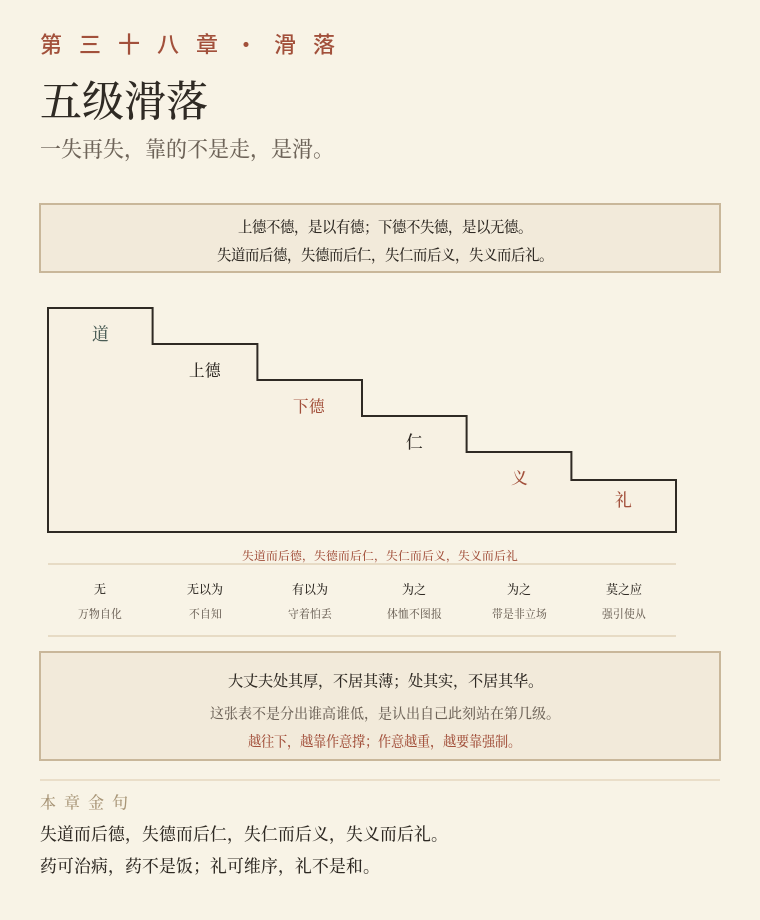
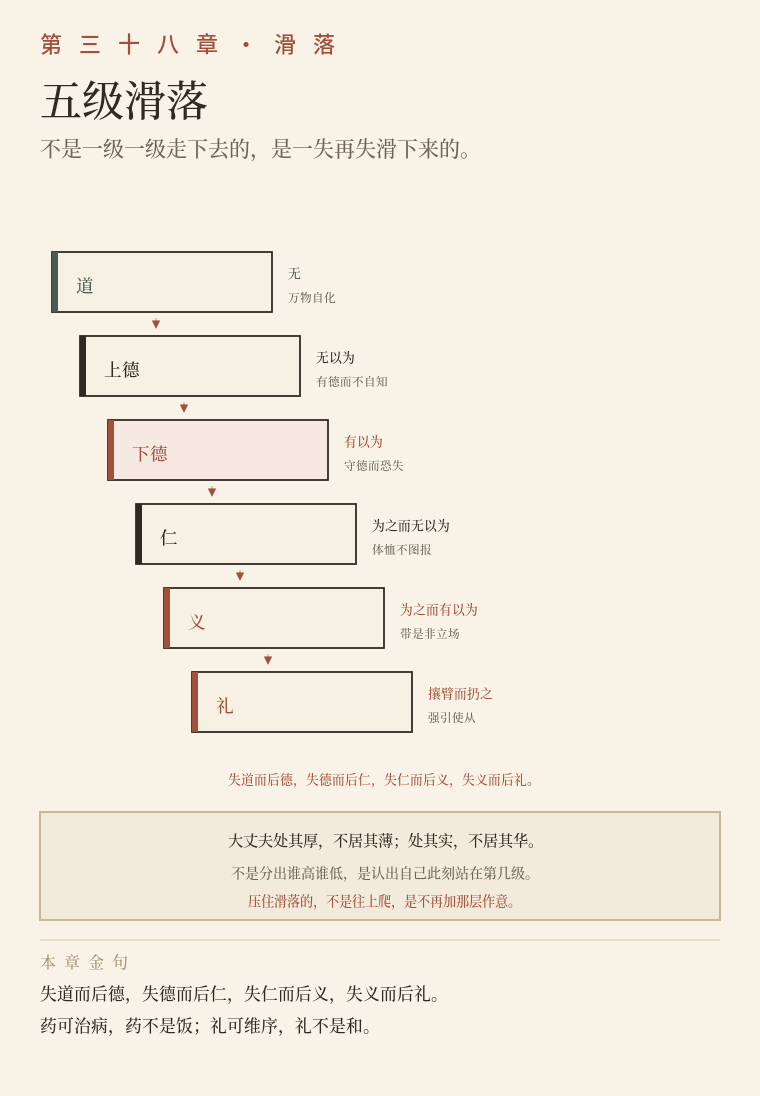
2.8.7 三十八融合旧版纵列：六框右移成滑落

diff --git a/tools/make_yili_svg.py b/tools/make_yili_svg.py
@@ -210,7 +210,7 @@ def ch01_miao_jiao():
 
 # ============ 第二章 · 六组对偶 ============
 def ch02_liu_zu():
-    W, H = 380, 512
+    W, H = 380, 548
     body, y = head(W, H, "六组对偶：执名则生对立", "第 二 章 · 对 照", "六组对偶",
                    "名一立，对面就跟着立；六组全是同一件事。", H)
     s = [body]
@@ -549,7 +549,7 @@ def ch51_sheng_bu_you():
 
 # ============ 第六十七章 · 三宝 ============
 def ch67_san_bao():
-    W, H = 380, 540
+    W, H = 380, 548
     body, y = head(W, H, "慈、俭、不敢为天下先：三条活得久的约束", "第 六 十 七 章 · 三 宝", "三宝",
                    "「长」量的是时间，不是位次：做得成，还要做得久。", H)
     s = [body]
@@ -1453,7 +1453,7 @@ def ch20_wei_zhi_yu_e():
 
 # ============ 第二十一章 · 孔德之容 ============
 def ch21_kong_de():
-    W, H = 380, 512
+    W, H = 380, 548
     body, y = head(W, H, "德不是修出来的，是流出来的", "第 二 十 一 章 · 道 之 为 物", "孔德之容",
                    "道不抓取时是道；被我们抓取时，才成恍兮惚兮。", H)
     s = [body]
@@ -2829,49 +2829,41 @@ def ch37b_pu_yu_jing():
 
 # ============ 第三十八章 · 五级台阶 ============
 def ch38_wu_ji_tai_jie():
-    W, H = 380, 460
-    body, y = head(W, H, "一级比一级低：不是台阶，是滑落", "第 三 十 八 章 · 滑 落",
-                   "五级滑落", "一失再失，靠的不是走，是滑。", H)
+    W, H = 380, 548
+    body, y = head(W, H, "越往下，越靠作意撑；作意越重，越要强制", "第 三 十 八 章 · 滑 落",
+                   "五级滑落", "不是一级一级走下去的，是一失再失滑下来的。", H)
     s = [body]
 
-    s.append(box(20, y + 2, 340, 34, fill="#F2EADA", stroke="#C9B79A"))
-    s.append(txt(190, y + 16, "上德不德，是以有德；下德不失德，是以无德。", 7.2, INK, "middle"))
-    s.append(txt(190, y + 30, "失道而后德，失德而后仁，失仁而后义，失义而后礼。", 7.2, INK, "middle"))
+    rows = [("道", "无", "万物自化", GREEN),
+            ("上德", "无以为", "有德而不自知", INK),
+            ("下德", "有以为", "守德而恐失", SEAL),
+            ("仁", "为之而无以为", "体恤不图报", INK),
+            ("义", "为之而有以为", "带是非立场", SEAL),
+            ("礼", "攘臂而扔之", "强引使从", SEAL)]
 
-    a = y + 44
-    base = a + 122
-    bnd = [24, 76.3, 128.7, 181, 233.3, 285.7, 338]
-    offs = [10, 28, 46, 64, 82, 96]
-    d = f'M{bnd[0]},{a+offs[0]} '
-    for i in range(6):
-        d += f'L{bnd[i+1]},{a+offs[i]} '
+    a = y + 26
+    step = 42
+    w = 110
+    for i, (nm, judge, mark, col) in enumerate(rows):
+        bx = 26 + i * 14
+        by = a + i * step
+        fill = "#F6E9E2" if nm == "下德" else "#F7F1E3"
+        s.append(f'<rect x="{bx}" y="{by}" width="{w}" height="30" fill="{fill}" stroke="{INK}" stroke-width="0.9"/>')
+        s.append(f'<rect x="{bx}" y="{by}" width="3" height="30" fill="{col}"/>')
+        s.append(txt(bx + 12, by + 20, nm, 8.8, col))
+        s.append(txt(bx + w + 8, by + 13, judge, 6.4, col))
+        s.append(txt(bx + w + 8, by + 25, mark, 5.8, "#6E6459"))
         if i < 5:
-            d += f'L{bnd[i+1]},{a+offs[i+1]} '
-    d += f'L{bnd[6]},{base} L{bnd[0]},{base} Z'
-    s.append(f'<path d="{d}" fill="#F7F1E3" stroke="{INK}" stroke-width="1"/>')
+            s.append(arrow(bx + 52, by + 33, bx + 52, by + step - 4, "#C9B79A", 0.7, head="arrS"))
 
-    levels = [("道", GREEN), ("上德", INK), ("下德", SEAL), ("仁", INK), ("义", SEAL), ("礼", SEAL)]
-    for i, (nm, col) in enumerate(levels):
-        cx = (bnd[i] + bnd[i+1]) / 2
-        s.append(txt(cx, a + offs[i] + (16 if i < 5 else 13), nm, 8.4 if len(nm) == 1 else 7.8, col, "middle"))
+    y2 = a + 5 * step + 56
+    s.append(txt(190, y2, "失道而后德，失德而后仁，失仁而后义，失义而后礼。", 6.4, SEAL, "middle"))
 
-    s.append(txt(190, base + 14, "失道而后德，失德而后仁，失仁而后义，失义而后礼", 5.9, SEAL, "middle"))
-
-    lg = base + 20
-    s.append(f'<line x1="24" y1="{lg-4}" x2="338" y2="{lg-4}" stroke="{LINE}" stroke-width="0.6"/>')
-    judges = [("无", "万物自化"), ("无以为", "不自知"), ("有以为", "守着怕丢"),
-              ("为之", "体恤不图报"), ("为之", "带是非立场"), ("莫之应", "强引使从")]
-    for i, (j, mark) in enumerate(judges):
-        cx = (bnd[i] + bnd[i+1]) / 2
-        s.append(txt(cx, lg + 11, j, 6.0, INK, "middle"))
-        s.append(txt(cx, lg + 23, mark, 5.4, "#6E6459", "middle"))
-    s.append(f'<line x1="24" y1="{lg+32}" x2="338" y2="{lg+32}" stroke="{LINE}" stroke-width="0.6"/>')
-
-    y3 = lg + 40
+    y3 = y2 + 14
     s.append(box(20, y3, 340, 54, fill="#F2EADA", stroke="#C9B79A"))
     s.append(txt(190, y3 + 17, "大丈夫处其厚，不居其薄；处其实，不居其华。", 7.6, INK, "middle"))
-    s.append(txt(190, y3 + 33, "这张表不是分出谁高谁低，是认出自己此刻站在第几级。", 7.0, "#6E6459", "middle"))
-    s.append(txt(190, y3 + 47, "越往下，越靠作意撑；作意越重，越要靠强制。", 6.6, SEAL, "middle"))
+    s.append(txt(190, y3 + 33, "不是分出谁高谁低，是认出自己此刻站在第几级。", 7.0, "#6E6459", "middle"))
+    s.append(txt(190, y3 + 47, "压住滑落的，不是往上爬，是不再加那层作意。", 6.6, SEAL, "middle"))
     s.append(gold(y3 + 64, "ch38"))
     s.append('</svg>')
     return "\n".join(s)

diff --git a/book/义理图-体例.md b/book/义理图-体例.md
@@ -79,7 +79,7 @@
 | 三十六·b | ch36b-wei-ming-yuan | 微明 · 渊 · 利器 | 拐点未显（曲线顶点＋赭点／胜＝任：直梁撑不住、弯梁承得住）／渊与鱼（回水圈里鱼 vs 岸上鱼鳃张，鱼自己跳上岸）／利器（墙上挂刀 vs 嘴上一把刀被禁）；读图一句：看见拐点的人不出声，出声的人已经在下棋。 |
 | 三十七·a | ch37a-wei-shou-xiang | 手牵象，与自化 | 为（手在上、绳系象）／无为（绳落地上，象自己走）；化（一手指向一人，旁有「教」）／自化（加一个「自」，方向反了）；读图一句：手一拿开，象还是那头象，路还是那条路。 |
 | 三十七·b | ch37b-pu-yu-jing | 朴 · 静 · 自正 | 原木压火（没上漆没雕花没名字）对刀压人（人会反弹）；静（劲不必往外扯）对驰（人没动心跑了）；自正（脚落在止上）对定（有人按着）；读图一句：木头上什么都没有，所以火没处可攀。 |
-| 三十八 | ch38-wu-ji-tai-jie | 五级滑落 | 六级滑落剖面（道／上德／下德／仁／义／礼）逐级下沉，读作「滑落」不是「台阶」，栏下一行「失道而后德…」；六级各带判语与迹象（无·万物自化／无以为·不自知／有以为·守着怕丢／为之·体恤不图报／为之·带是非立场／莫之应·强引使从）；收束用「大丈夫处其厚…」；读图一句：一失再失，靠的不是走，是滑。旧版 ch38-wu-ji（纵列方框）已移入 old/ |
+| 三十八 | ch38-wu-ji-tai-jie | 五级滑落 | 纵列六框（道／上德／下德／仁／义／礼），每框右配判语与迹象，逐框右移成一列下滑的砖阶，框间赭色小箭头；下接「失道而后德…」与「大丈夫处其厚…」收束；读图一句：一失再失，靠的不是走，是滑。旧纵列版 ch38-wu-ji 已并进来，原件留 old/ |
 | 三十六·a | ch36a-si-dui-jie-lv | 四对：一张一阖 | 四格：歙/张（弓弦与呼）／弱/强（曲枝对绷弦）／废/兴（塌顶屋对四手举物）／取/与（伸手拿对托饼给）；「固」一字两路：观天（必然如此）／下棋（你就这样办）；读图一句：四对不是四招，是四个时辰。 |
 | 三十五·a | ch35a-zhi-yu-chang | 执大象，天下往 | 两只手：向外扣（手形自带被抓的人）／向内捧（捧住的是自己）；场与门槛：虚线圈里站着人、旁边一幅可挂的图、横伸手把圈切成门；安平泰三格（宀下有人／两高下无压／气穿过） |
 | 三十四·b | ch34b-yi-ju-liang-du | 一句两读：小与大 | 帛书同句两见：中心「不主」环、万物自外归而不入其内；左读作小（不伸张/不认领/不做主），右读作大（差异都进来、不必改成一样）；下证「恒无欲」：按本库第一章「欲＝发心、志求（从谷从欠）」立义，第三章所戒是攀缘之欲，本章不是把欲掐掉，是那一念从不把场填满锁死（「无」依本库第一章定义：虚场，非空无） |
